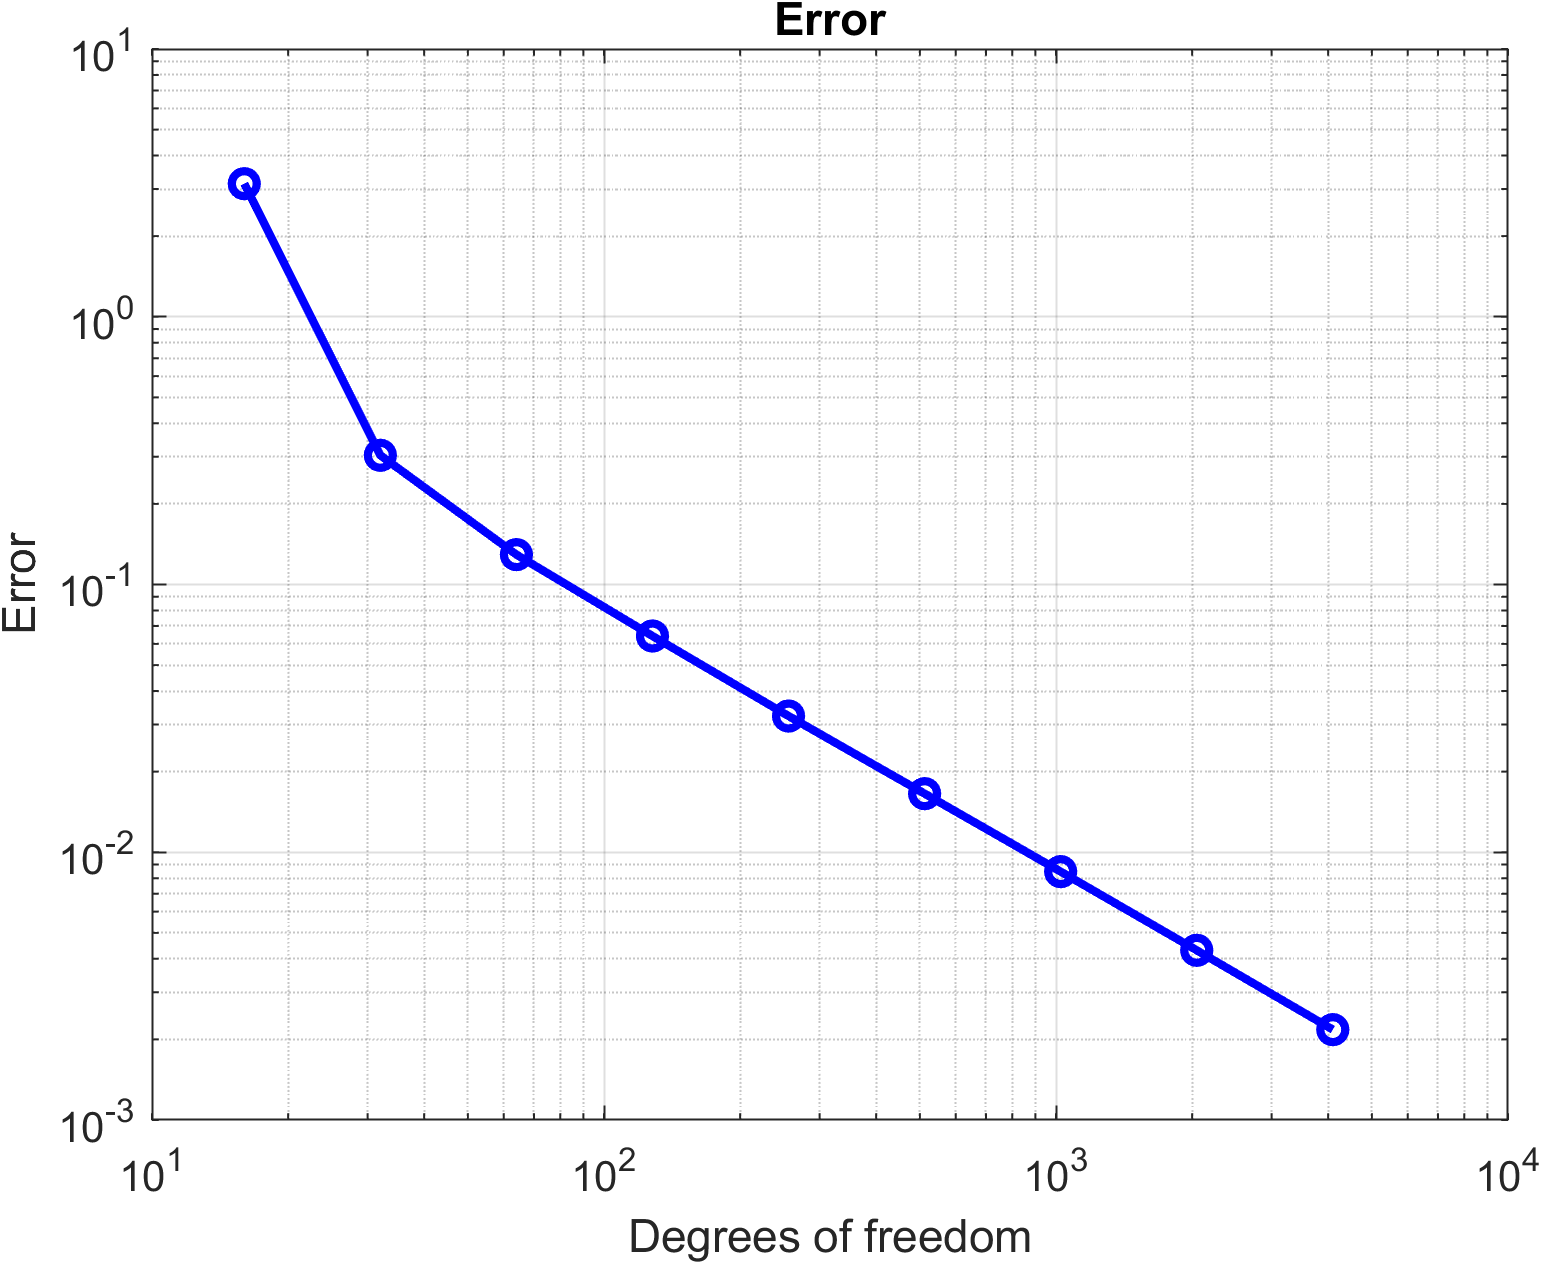
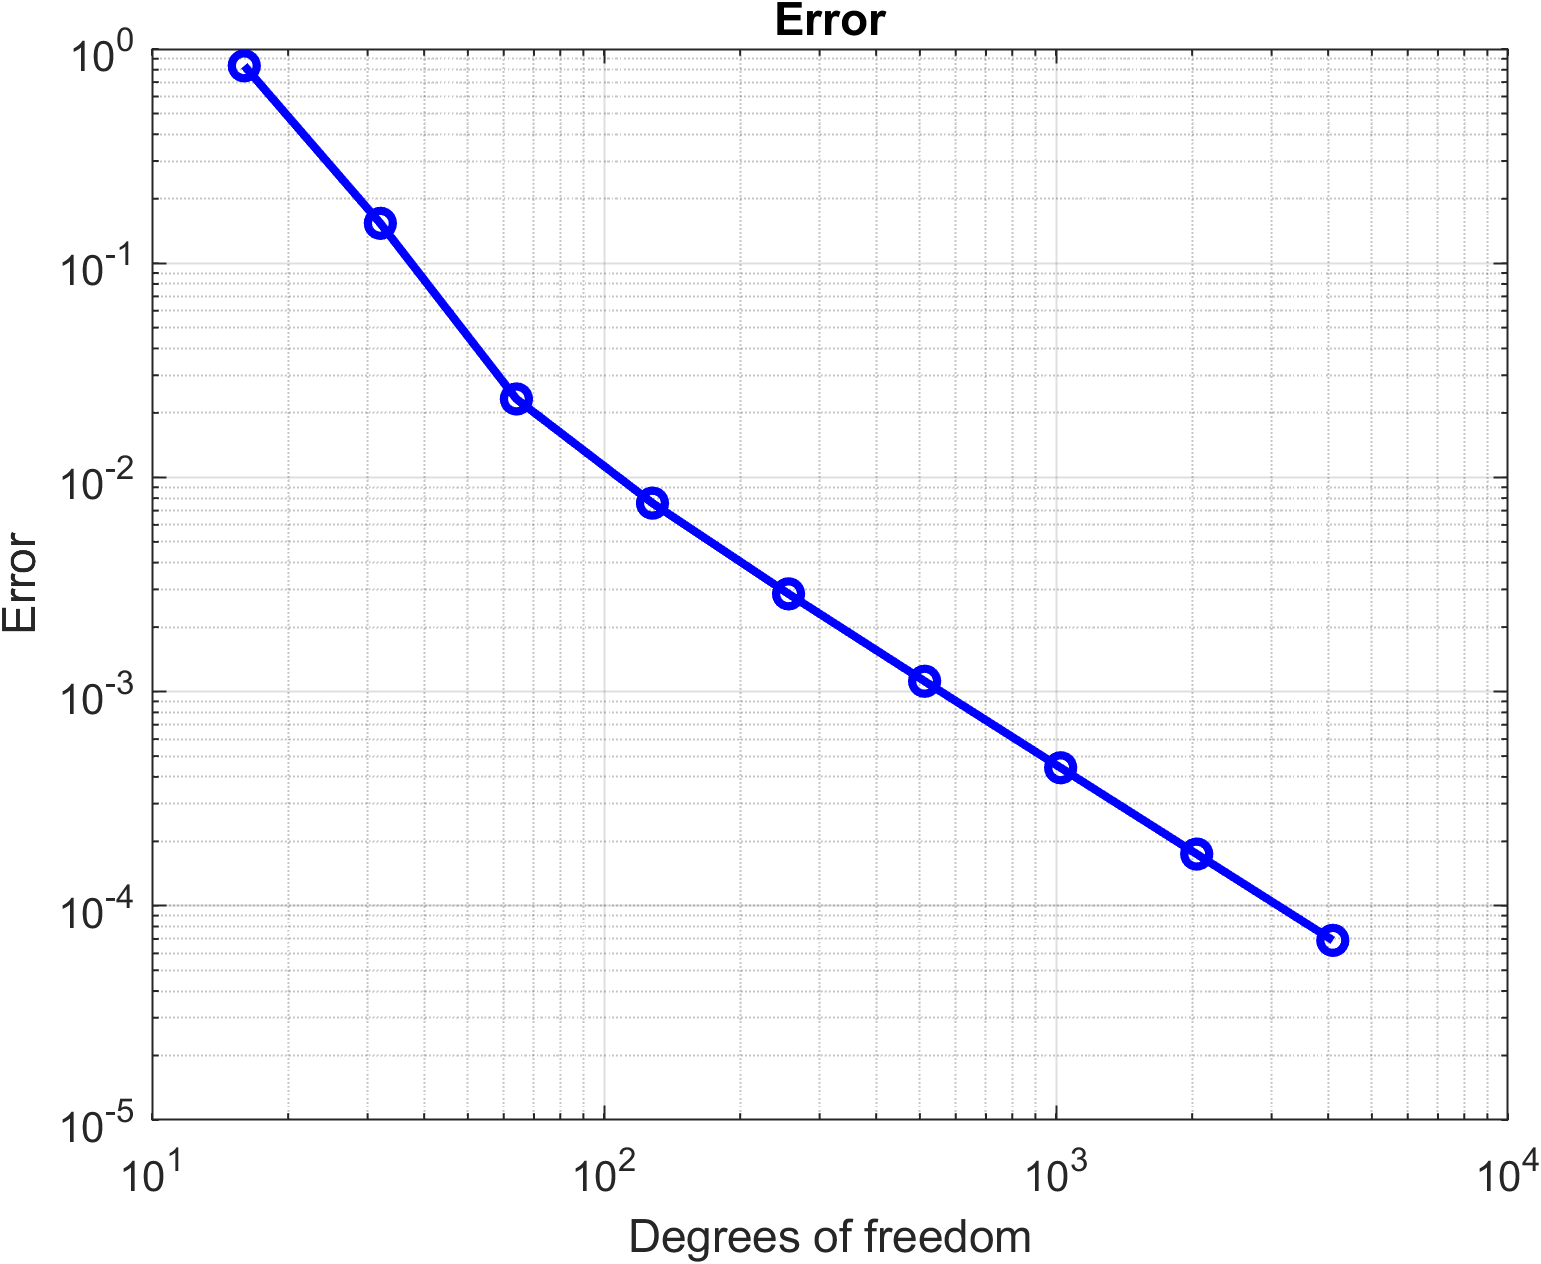
correzione funzioni per BEM (usavo pesi si [0, 1] e non su [-1 1])

diff --git a/Progetto esame/BEM.m b/Progetto esame/BEM.m
@@ -70,18 +70,18 @@ F = -u_inc(x_k);
 A = zeros(N, N);
 [xq_off_diag, wq_off_diag] = gaussquad(n_gauss_pts_off_diag);
 for j = 1:N
-    y_q = p_k + (h_k/2) * (xq_off_diag.'+1) .* tau_k;
+    y_q = p_k + h_k * xq_off_diag.' .* tau_k;
     r = abs(x_k(j)-y_q);
     integrand2 = besselh(0, 1, k*r);
-    A(j, :) = sum((1i/4) * integrand2 .* h_k/2 * wq_off_diag, 2);
+    A(j, :) = sum((1i/4) * integrand2 .* h_k * wq_off_diag, 2);
 end
 % fix the diagonal of A
 [xq_on_diag, wq_on_diag] = gaussquad(n_gauss_pts_on_diag);
 for j = 1:N
-    y_q = (h_k(j)/4)*(xq_on_diag+1);
+    y_q = h_k(j) * xq_on_diag;
    
     integrand = besselh(0, 1, k*y_q);
-    A(j, j) = (1i/2)*(h_k(j)/4)*wq_on_diag.'*integrand;
+    A(j, j) = (1i/2)*(h_k(j)/2)*wq_on_diag.'*integrand;
 end
 time_assembling = toc;
 
@@ -103,10 +103,10 @@ in = inpolygon(X, Y, real(v), imag(v));
 
 for j = 1:numel(Z)
     if ~in(j)
-        y_q = p_k + ((h_k./2) * (xq_plot.'+1)) .* tau_k;
+        y_q = p_k + (h_k * xq_plot.') .* tau_k;
         r = abs(Z(j)-y_q);
         integrand = besselh(0, 1, k*r);
-        u_scat(j) = sum(  (1i/4) * integrand .* psi .* h_k/2 * wq_plot);
+        u_scat(j) = sum(  (1i/4) * integrand .* psi .* h_k * wq_plot);
     end
 end
 time_plot = toc;
@@ -134,7 +134,7 @@ fprintf("Time to solve the linear system = %f seconds\n", time_lin_sist)
 fprintf("Time to plot the solution via representation formula = %f seconds\n", time_plot)
 
 function [x, w] = gaussquad(q)
-% quadrature nodes and weights for the Gauss quadrature on [-1 1]
+% quadrature nodes and weights for the Gauss quadrature on [0 1]
 B = ( 1:(q-1) )./ sqrt( 4*( 1:(q-1) ).^2 -1 );
 [V, D] = eig( diag(B, -1) + diag(B, 1) );
 x = ( diag(D)+1 )/2;

diff --git a/Progetto esame/prova.m b/Progetto esame/prova.m
@@ -70,18 +70,19 @@ F = -u_inc(x_k);
 A = zeros(N, N);
 [xq_off_diag, wq_off_diag] = gaussquad(n_gauss_pts_off_diag);
 for j = 1:N
-    y_q = p_k + (h_k/2) * (xq_off_diag.'+1) .* tau_k;
+    y_q = p_k + h_k * xq_off_diag.' .* tau_k;
     r = abs(x_k(j)-y_q);
     integrand = besselh(0, 1, k*r);
-    A(j, :) = sum((1i/4) * integrand .* h_k/2 * wq_off_diag, 2);
+    A(j, :) = sum((1i/4) * integrand .* h_k * wq_off_diag, 2);
 end
 % fix the diagonal of A
 [xq_on_diag, wq_on_diag] = gaussquad(n_gauss_pts_on_diag);
 for j = 1:N
-    y_q = (h_k(j)/4)*(xq_on_diag+1);
+    y_q = h_k(j)/2 * xq_on_diag;
    
     integrand = besselh(0, 1, k*y_q);
-    A(j, j) = (1i/2)*(h_k(j)/4)*wq_on_diag.'*integrand;
+
+    A(j, j) = (1i/2)*(h_k(j)/2)*wq_on_diag.'*integrand;
 end
 time_assembling = toc;
 
@@ -101,23 +102,15 @@ u_scat = zeros(size(Z));
 in = inpolygon(X, Y, real(v), imag(v));
 [xq_plot, wq_plot] = gaussquad(n_gauss_pts_plot);
 
-% for j = 1:numel(Z)
-%     if ~in(j)
-%         y_q = p_k + ((h_k./2) * (xq_plot.'+1)) .* tau_k;
-%         r = abs(Z(j)-y_q);
-%         integrand = besselh(0, 1, k*r);
-%         u_scat(j) = sum(  (1i/4) * integrand .* psi .* h_k/2 * wq_plot);
-%     end
-% end
 
 for j = 1:N
-    y_q = p_k(j) +  h_k(j)/2 * (xq_plot +1)  * tau_k(j);
+    y_q = p_k(j) +  h_k(j) * xq_plot * tau_k(j);
     y_q = reshape(y_q, 1, 1, n_gauss_pts_plot);
     r = abs(Z - y_q);
 
     integrand = besselh(0, 1, k*r);
 
-    u_scat = u_scat + sum( (1i/4)  * integrand .* reshape(wq_plot, 1, 1, n_gauss_pts_plot) * psi(j)*h_k(j)/2, 3);
+    u_scat = u_scat + sum( (1i/4)  * integrand .* reshape(wq_plot, 1, 1, n_gauss_pts_plot) * psi(j)*h_k(j), 3);
 end
 time_plot = toc;
 

diff --git a/Progetto esame/studio_errore.m b/Progetto esame/studio_errore.m
@@ -73,7 +73,7 @@ for s = 1:length(N)
     H(s) = h(1);
 end
 
-p = polyfit(log(H(6:end)), log(Err(6:end)), 1); 
+p = polyfit(log(H(end-4:end)), log(Err(end-4:end)), 1); 
 slope = p(1); % ordine di convergenza
 
 f1 = figure; 
